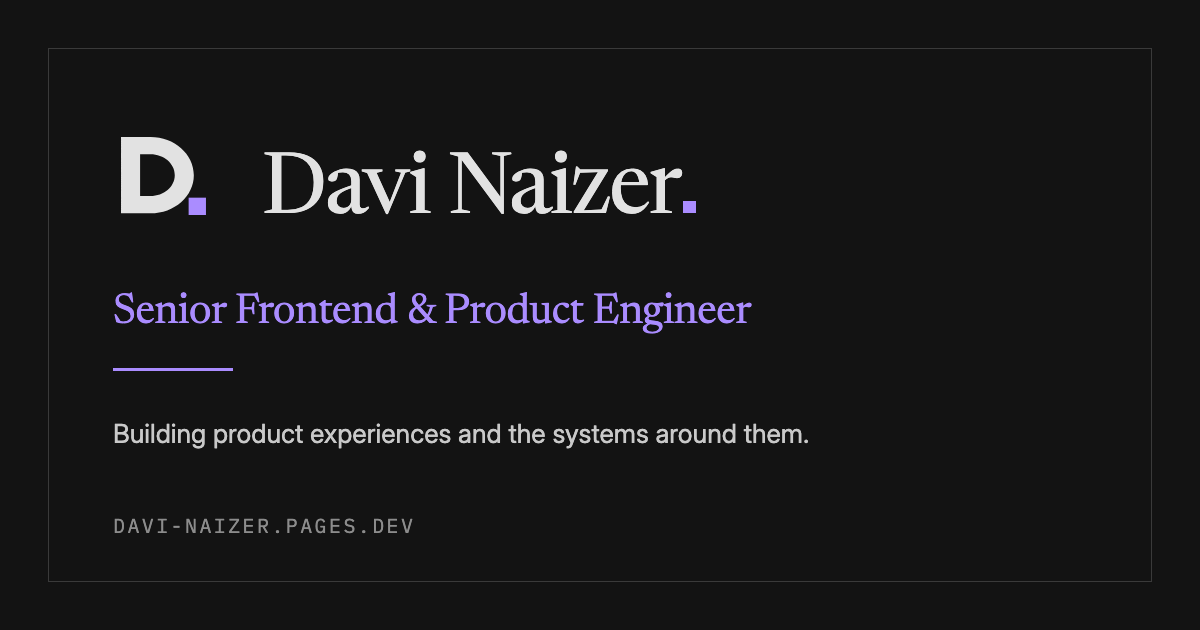
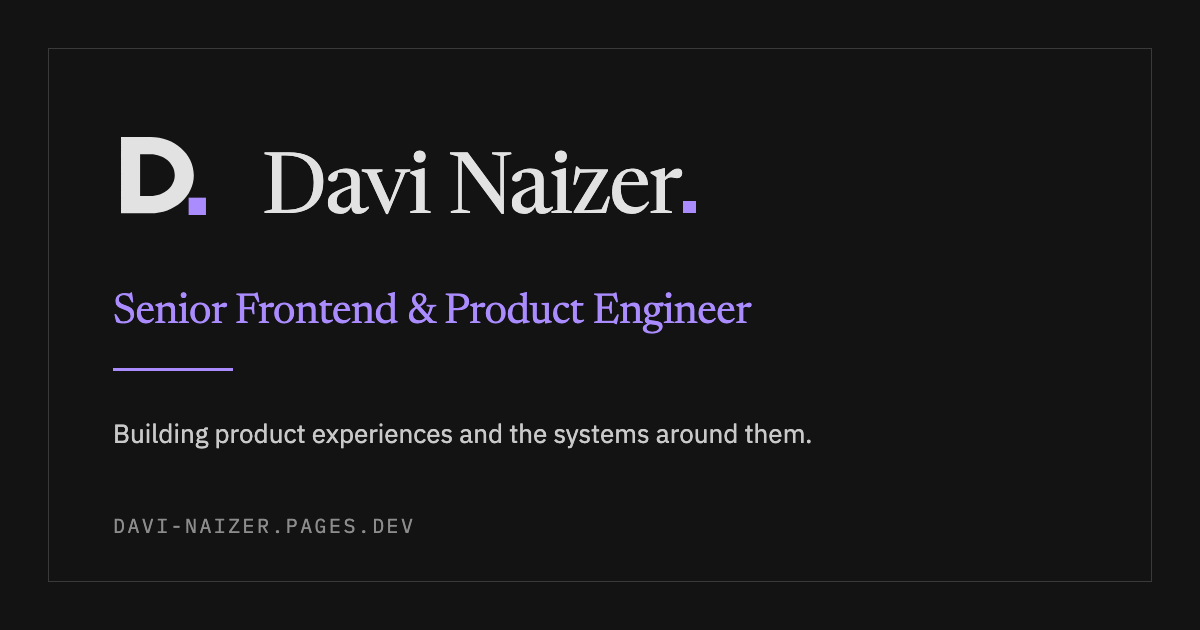
style(typography): replace Inter with IBM Plex Sans

Changed region(s): [[0.0925, 0.6635, 0.6783, 0.7238]]

diff --git a/index.html b/index.html
@@ -8,7 +8,7 @@
     <link rel="preconnect" href="https://fonts.gstatic.com" crossorigin />
     <link
       rel="stylesheet"
-      href="https://fonts.googleapis.com/css2?family=IBM+Plex+Mono:wght@400;500&family=Inter:opsz,wght@14..32,400;14..32,500&family=Newsreader:ital,opsz,wght@0,6..72,400;0,6..72,600;1,6..72,400&display=swap"
+      href="https://fonts.googleapis.com/css2?family=IBM+Plex+Mono:wght@400;500&family=IBM+Plex+Sans:wght@400;500&family=Newsreader:ital,opsz,wght@0,6..72,400;0,6..72,600;1,6..72,400&display=swap"
     />
     <meta
       name="description"

diff --git a/src/styles/tokens.css b/src/styles/tokens.css
@@ -19,7 +19,7 @@
 	--color-focus: var(--color-accent);
 
 	/* Typography */
-	--font-family-sans: Inter, ui-sans-serif, system-ui, sans-serif;
+	--font-family-sans: "IBM Plex Sans", ui-sans-serif, system-ui, sans-serif;
 	--font-family-serif: Newsreader, Georgia, "Times New Roman", serif;
 	--font-family-mono: "IBM Plex Mono", ui-monospace, monospace;
 	--font-size-caption: 0.875rem;

diff --git a/docs/HANDOFF.md b/docs/HANDOFF.md
@@ -1,7 +1,7 @@
 ---
 createdAt: 2026-08-10
 updatedAt: 2026-09-28
-version: 1.86
+version: 1.87
 status: active
 ---
 
@@ -9,7 +9,7 @@ status: active
 
 ## Completed outcome
 
-**The wordmark's round full stop is now a square everywhere**, delivered with same-scope `PASS`. The header wordmark and the Home h1 share one solid accent square (`patterns.css`, `Highlight` forced-colors fallback; the "." is no longer in the accessible name). `favicon.svg` (square stop, square tile) and the 16/32/512px favicons and `apple-touch-icon.png` were regenerated from it. `social-preview.png` was rebuilt with the site typefaces (Newsreader, Inter, IBM Plex Mono), the name baseline-aligned with the D mark, square stops, and no gradient wash (flat `#131313`). This follows the "Contributions square markers" task, also closed with `PASS`.
+**The site's sans family is now IBM Plex Sans instead of Inter**, delivered with same-scope `PASS`. `--font-family-sans` in `tokens.css` and the Google Fonts request in `index.html` changed (weights 400 and 500); Newsreader and IBM Plex Mono and their roles are unchanged. The `public/social-preview.png` tagline was redrawn in Plex Sans, and `docs/design/DESIGN.md` names the new family. This follows the wordmark square stop, also closed with `PASS`.
 
 ## Next task candidate
 
@@ -22,15 +22,10 @@ None. `TODO.md` has no incomplete task. The developer should bring a new objecti
 
 ## Evidence pointers
 
-- `docs/plans/2026-09-28-wordmark-square-stop.md` (approved plan, Option C decision, and the two social-image amendments), `TODO.md` ("Wordmark square stop — Complete"), `src/styles/patterns.css`, `public/favicon.svg`, `public/social-preview.png`
-- `docs/plans/2026-09-28-contributions-square-markers.md` (approved plan and the Outcomes-bar decision), `TODO.md` ("Contributions square markers — Complete")
-- `docs/plans/2026-09-28-merge-experience-into-resume.md` (approved plan, developer-directed amendment removing the header button, and re-review note)
-- `docs/DECISIONS.md` ("Merge Experience into Resume — 2026-09-28", with its review trigger)
-- `PRODUCT_REQUIREMENTS.md` §9 and `docs/ARCHITECTURE.md` (Navigation and rendering), both amended
-- `src/pages/ResumePage.tsx`, `src/pages/ResumePage.css` (timeline `experience__*` rules moved here verbatim), `src/components/ExperienceTimeline.tsx`, `src/components/SectionNav.tsx`, `src/components/PrimaryNavigation.tsx`
-- `e2e/critical-journeys.spec.ts` (Resume timeline, continuation, and removed-routes coverage)
-- `TODO.md` ("Merge Experience into Resume (developer-directed) — Complete")
-- Prior work: `docs/audit/2026-09-27-visual-css-consistency.md` (fully closed), `docs/design/DESIGN.md`
+- `docs/plans/2026-09-28-ibm-plex-sans.md` (approved plan and the social-preview decision), `docs/DECISIONS.md` ("Replace Inter with IBM Plex Sans as the sans family — 2026-09-28", with its review trigger), `TODO.md` ("Replace Inter with IBM Plex Sans — Complete")
+- `src/styles/tokens.css`, `index.html`, `public/social-preview.png`, `docs/design/DESIGN.md`
+- `docs/plans/2026-09-28-wordmark-square-stop.md` (previous task; created the social-preview layout)
+- Prior work: `docs/audit/2026-09-27-visual-css-consistency.md` (fully closed), `docs/plans/2026-09-28-merge-experience-into-resume.md`, `docs/plans/2026-09-28-contributions-square-markers.md`
 
 ## Blockers
 
@@ -38,14 +33,14 @@ None.
 
 ## Constraints and deferred work
 
-- The Outcomes list keeps its accent bar; revisit if it also reads heavy on case-study pages. Forced-colours rendering of the new marker was not observed in a real forced-colours environment.
-- `public/social-preview.png` has no source file in the repo: it was rendered from a throwaway HTML page (site fonts, 1200×630, flat `#131313`). Editing it means re-creating that layout or editing the PNG; consider committing a source only if it needs regular changes.
-- The wordmark square and forced-colours rendering were not observed at 320px or in a real forced-colours environment (rules verified in the built CSS only).
+- Verification of the font swap covered overflow at 1280, 896, 640 and 320px on all main routes, with screenshots reviewed only at 1280 and 320px. A keyboard focus pass and the 896/640px visuals were not done; spot-check when convenient.
+- `public/social-preview.png` has no source file in the repo. The tagline was patched over the existing PNG; changing it again means repeating that or recreating the layout. Social platforms cache preview images, so the new card may be slow to appear.
+- `docs/design/DESIGN.md` Components → Buttons still says "`label-mono` text" although buttons are sentence-case Plex Sans (pre-existing doc drift).
+- The Outcomes list keeps its accent bar; revisit if it also reads heavy on case-study pages. Forced-colours rendering of the contribution and wordmark squares was not observed in a real forced-colours environment, nor the wordmark at 320px.
 - No redirects: add a hash-preserving `/experience` redirect only if evidence shows traffic to it (review trigger in `docs/DECISIONS.md`; same policy for the retired `/case-studies` and `/projects`).
-- Home's "Explore experience" button and "View career timeline" link now lead to the Resume page under unchanged labels; the intro wraps to three lines at 320px. Revisit only if either reads poorly.
-- The whole "Earlier career" section is commented out in `ResumePage.tsx` (moved as-is from the old Experience page), so its CSS in `ResumePage.css` has no visual effect.
-- Section-nav highlight can go stale (scroll-spy in `SectionNav.tsx` updates only when a section crosses its 20–30% viewport band); non-blocking.
-- Two timeline nav labels wrap in the desktop rail ("Independent Product Project · 2025–Present", "Gamesys / Bally's Interactive · 2020–2022"); revisit only if tighter labels are wanted.
+- Home's "Explore experience" button and "View career timeline" link lead to the Resume page under unchanged labels; the intro wraps to three lines at 320px. Revisit only if either reads poorly.
+- The whole "Earlier career" section is commented out in `ResumePage.tsx`, so its CSS in `ResumePage.css` has no visual effect.
+- Section-nav highlight can go stale (scroll-spy in `SectionNav.tsx` updates only when a section crosses its 20–30% viewport band); two timeline nav labels wrap in the desktop rail. Both non-blocking.
 - Six low-ROI audit findings were closed as "no action needed" (G4, G8–G11, F5); see the audit doc before reopening.
 - `.project-page__decisions-detail h3` duplicates `.experience__detail h3`'s seven properties across `patterns.css` and `ResumePage.css`; extract only if a third usage appears.
 - `.primary-navigation a`, `.section-nav__link`, `.project-page__back`, and the footer links were deliberately kept out of the button/link consolidation (T13).

diff --git a/docs/plans/2026-09-28-ibm-plex-sans.md b/docs/plans/2026-09-28-ibm-plex-sans.md
@@ -1,0 +1,57 @@
+---
+createdAt: 2026-09-28
+updatedAt: 2026-09-28
+version: 1.0
+status: complete
+---
+
+# Replace Inter with IBM Plex Sans
+
+Developer-directed. Approved 2026-09-28. Supports PRODUCT_REQUIREMENTS 4.1 (job applications) and engineering judgement. Milestone 5.
+
+## Objective
+
+Replace Inter with IBM Plex Sans as the site's sans family. Newsreader and IBM Plex Mono are unchanged, and the family roles are unchanged: Newsreader for headings, sans for body and interface text, mono for labels and metadata.
+
+## Evidence and decision
+
+- Developer visual review of four rendered variants (Inter, Libre Franklin, IBM Plex Sans, Atkinson Hyperlegible Next) on 2026-09-28. The developer judges Inter overused and startup-generic and chose IBM Plex Sans.
+- Rationale: Plex Sans and Plex Mono are drawn as one family; Plex Sans is less overused than Inter; the choice is straightforward to justify.
+- Alternatives considered: Libre Franklin (strongest editorial pairing, wider set) and Atkinson Hyperlegible Next (accessibility story, most personality-forward).
+- Related: DECISIONS.md 2026-09-27 (three families kept, roles fixed). This plan does not reopen it.
+- Material decision: `public/social-preview.png` was rendered with Inter. The developer chose option A: regenerate it with Plex Sans, consistent with the wordmark-square-stop precedent (option C).
+
+## Scope
+
+- `index.html`: replace the Inter request with `IBM+Plex+Sans:wght@400;500`.
+- `src/styles/tokens.css`: set `--font-family-sans` to `"IBM Plex Sans", ui-sans-serif, system-ui, sans-serif`.
+- Retune metrics (letter-spacing, sizes, widths) only where a regression is observed, using existing tokens first.
+- Regenerate `public/social-preview.png` (1200x630, same layout, Newsreader, IBM Plex Sans, IBM Plex Mono, square stops, flat `#131313`).
+- Update `docs/design/DESIGN.md` (family name); add a `docs/DECISIONS.md` entry.
+
+## Exclusions
+
+Newsreader, Plex Mono or role changes; new weights or dependencies; self-hosting fonts; fallback size-adjust tuning; content, colour or layout redesign; rewriting historical decision, audit, plan and handoff prose that mentions Inter.
+
+## Assumptions and risks
+
+- Weights 400 and 500 only: those are the only sans weights in use (audit F3 removed the unused ones). Plex Sans has no optical-size axis.
+- Plex Sans sets wider than Inter: check nav, chips and buttons for wrapping at desktop, `56rem`, `40rem` and 320px.
+- Tracking on sans-set text was tuned for Inter: fix only visible regressions.
+
+## Completion criteria
+
+| Outcome | Evidence |
+|---|---|
+| No Inter remains in the shipped site (token, font request, DESIGN.md, social preview) | search of `src`, `index.html`, `docs/design/DESIGN.md`; visual check of the preview |
+| Plex Sans loads and renders at 400 and 500 | `document.fonts` check in a browser |
+| No wrapping or overflow regression at desktop, 56rem, 40rem, 320px | manual check on Home, Work, a project page, Resume, Contact, Not Found |
+| Focus, contrast and accessibility unchanged | `pnpm test` (axe); visible focus spot check |
+| Decision and design docs accurate | `DECISIONS.md` entry; `DESIGN.md` diff |
+| Repository deployable | `pnpm typecheck`, `biome check src`, `pnpm test`, `pnpm build`, `pnpm test:e2e` |
+
+`pnpm validate` still fails on the known unrelated `.claude/settings.local.json` formatting issue; scoped checks apply.
+
+## Review trigger
+
+Revisit if any wrapping or width regression appears at 320px, or if the sans reads poorly beside Newsreader in production.

diff --git a/docs/design/DESIGN.md b/docs/design/DESIGN.md
@@ -1,6 +1,6 @@
 ---
 name: Modern Swiss Editorial
-updatedAt: 2026-09-27
+updatedAt: 2026-09-28
 colors:
   background: "#131313"
   text-primary: "#e2e2e2"
@@ -29,17 +29,17 @@ typography:
     lineHeight: "1.3"
     letterSpacing: -0.015em
   body-lg:
-    fontFamily: Inter
+    fontFamily: IBM Plex Sans
     fontSize: 20px
     fontWeight: "400"
     lineHeight: "1.6"
   body-md:
-    fontFamily: Inter
+    fontFamily: IBM Plex Sans
     fontSize: 16px
     fontWeight: "400"
     lineHeight: "1.6"
   caption:
-    fontFamily: Inter
+    fontFamily: IBM Plex Sans
     fontSize: 14px
     fontWeight: "400"
     lineHeight: "1.5"
@@ -95,7 +95,7 @@ Colours are authored in OKLCH where a hue is involved, so accent tints keep cons
 Typography is the core of this design system. Three families, each with one role:
 
 - **Newsreader** (serif) for headings, the header wordmark, and the project summary. It is not used for body copy.
-- **Inter** for body text, intros, captions, and interface text.
+- **IBM Plex Sans** for body text, intros, captions, and interface text.
 - **IBM Plex Mono** for technical labels and metadata, to hint at the software engineering focus.
 
 **Hierarchy Rules:**
@@ -104,7 +104,7 @@ Typography is the core of this design system. Three families, each with one role
 - **Alignment:** Stick to a rigorous left-aligned "ragged right" rag. Avoid justified text.
 - **Spacing:** Headlines have tight line-heights (0.95–1.3) to feel like architectural blocks, while body text uses generous leading (1.6) for readability. Body measure is capped at 65ch.
 - **Headings:** `h1` is the 48px serif page title (the home hero is larger). `h2` is the 24px serif title for a section or entry. Small mono labels are a separate style class and are not a heading level.
-- **Mono Labels:** Use IBM Plex Mono, uppercase and tracked, only for categories, dates, eyebrows and tags: supplementary metadata, never the only carrier of essential information. Primary navigation, buttons, the project-page back link, continuation links, and section headings (Context, Problem, Role…) are essential UI text, not supplementary labels, and are set in Inter, sentence case, not all-caps mono.
+- **Mono Labels:** Use IBM Plex Mono, uppercase and tracked, only for categories, dates, eyebrows and tags: supplementary metadata, never the only carrier of essential information. Primary navigation, buttons, the project-page back link, continuation links, and section headings (Context, Problem, Role…) are essential UI text, not supplementary labels, and are set in IBM Plex Sans, sentence case, not all-caps mono.
 - **Eyebrows:** Show an eyebrow above a heading only when it adds information the heading does not (for example the project type or the career period).
 
 ## Layout & Spacing

diff --git a/TODO.md b/TODO.md
@@ -1,7 +1,7 @@
 ---
 createdAt: 2026-08-07
 updatedAt: 2026-09-28
-version: 1.64
+version: 1.65
 status: active
 ---
 
@@ -619,6 +619,16 @@ Delivered and reviewed with `PASS` (after two developer-directed amendments to t
 - [x] Replace the round full stop on the header wordmark and the Home h1 with one shared solid accent square (`patterns.css`), with a forced-colors fallback; the "." no longer appears in the accessible name.
 - [x] Update `public/favicon.svg` (square stop, square tile) and regenerate `favicon-16x16.png`, `favicon-32x32.png`, `favicon-512.png` and `apple-touch-icon.png` from it.
 - [x] Rebuild `public/social-preview.png` with the site typefaces (Newsreader, Inter, IBM Plex Mono) and the square stops, same 1200×630 layout, name baseline-aligned with the D mark, and the gradient wash removed for a flat `#131313` canvas (developer-directed amendments after the first implementation, which had only painted over the round stops).
+- [x] Formal review (`PASS`) and completion.
+
+### Replace Inter with IBM Plex Sans (developer-directed) — Complete
+
+Delivered and reviewed with `PASS`. Governed by `docs/plans/2026-09-28-ibm-plex-sans.md` and the `DECISIONS.md` entry "Replace Inter with IBM Plex Sans as the sans family — 2026-09-28". Evidence is developer visual review of four rendered variants. Developer chose IBM Plex Sans, and option A: patch the social preview.
+
+- [x] Swap the sans family in `tokens.css` and the Google Fonts request in `index.html` (weights 400 and 500); Newsreader and IBM Plex Mono unchanged.
+- [x] Redraw the `public/social-preview.png` tagline in Plex Sans, same position, size class and colour.
+- [x] Update `docs/design/DESIGN.md` and add the decision entry.
+- [x] Verify fonts load and there is no horizontal overflow at 1280, 896, 640 and 320px; pass `pnpm typecheck`, `biome check src`, `pnpm test`, `pnpm build`, and `pnpm test:e2e`.
 - [x] Formal review (`PASS`) and completion.
 
 ---

diff --git a/docs/DECISIONS.md b/docs/DECISIONS.md
@@ -1,12 +1,22 @@
 ---
 createdAt: 2026-08-07
-updatedAt: 2026-09-27
-version: 1.32
+updatedAt: 2026-09-28
+version: 1.33
 status: active
 order: ASC
 ---
 
 # Decisions
+
+## Replace Inter with IBM Plex Sans as the sans family — 2026-09-28
+
+**Decision:** Set body and interface text in IBM Plex Sans (weights 400 and 500) instead of Inter. Newsreader and IBM Plex Mono are unchanged, and the three-family, fixed-role structure recorded on 2026-09-27 stands. `public/social-preview.png` was patched so its tagline uses Plex Sans too.
+
+**Rationale:** The developer judged Inter overused and a startup default, and chose Plex Sans after reviewing four rendered variants (Inter, Libre Franklin, IBM Plex Sans, Atkinson Hyperlegible Next). Plex Sans and Plex Mono are drawn as one family, so the sans and mono now pair by design, and the choice is easy to justify. Libre Franklin (strongest editorial pairing, wider set) and Atkinson Hyperlegible Next (accessibility story, most personality-forward) were the runners-up. Approved plan: `docs/plans/2026-09-28-ibm-plex-sans.md`.
+
+**Consequence:** `--font-family-sans` in `tokens.css` and the Google Fonts request in `index.html` changed; `docs/design/DESIGN.md` names the new family. Earlier decision, audit and plan entries that mention Inter are historical and left as written. Plex Sans has no optical-size axis, so the request is static weights.
+
+**Review triggers:** Reconsider if wrapping or width regressions appear at 320px, or if the sans reads poorly beside Newsreader in production.
 
 ## Merge Experience into Resume — 2026-09-28
 
